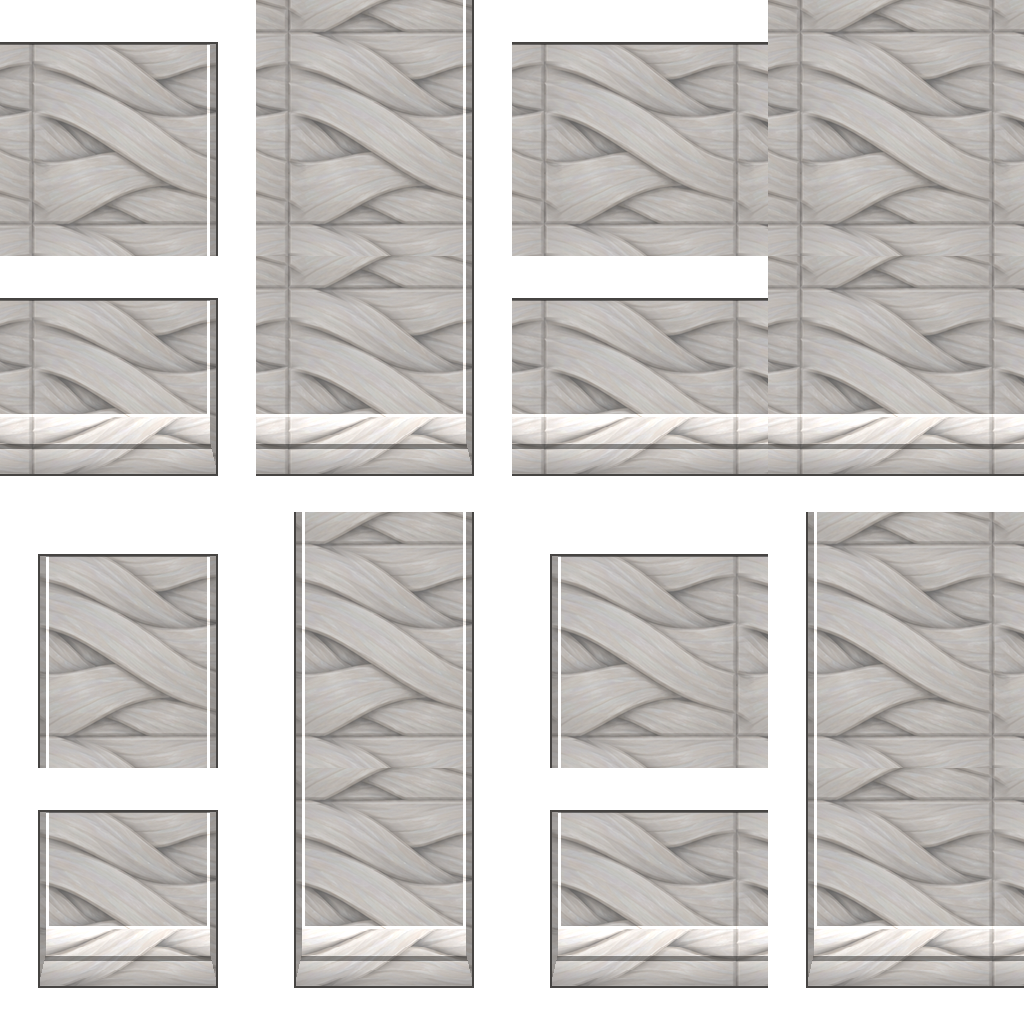
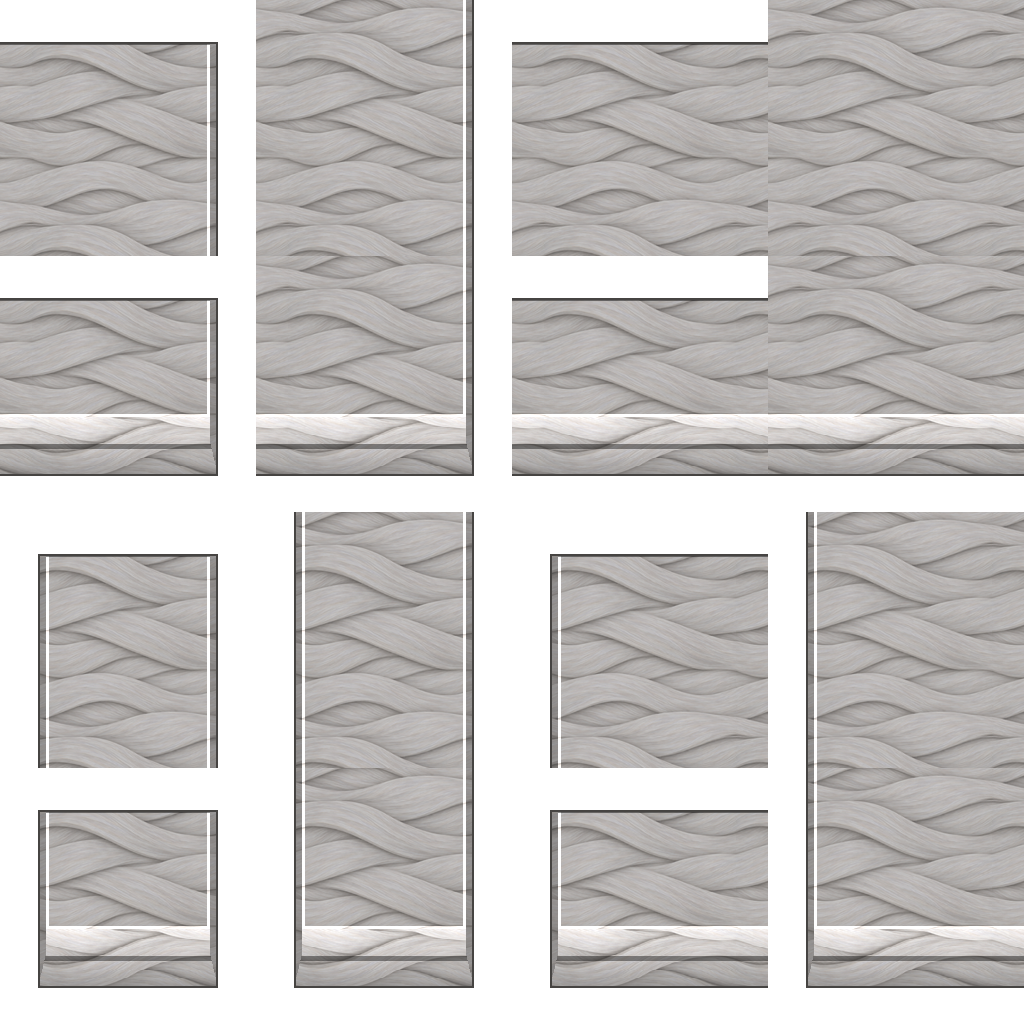
BIOME_SHIP_CONTRIBUTIONS_1: judge round 2 answered; provenance per row, stand-in art named and filed
Weeping Stones and Stillsand rows were agent picks, now marked so; the card quotes each row's source.
RIMMANDRAKE_PAINT_SHIP_GIFTS_OWN_ART owes own art for the 14 gifts on stand-ins.

diff --git a/whittle/biome_ship_contributions_1/evidence/owner_card.md b/whittle/biome_ship_contributions_1/evidence/owner_card.md
@@ -1,54 +1,85 @@
 # Card for the owner: the ship-gift matrix (BIOME_SHIP_CONTRIBUTIONS_1)
 
-Written Wed Nov 11, 11:10 PM PST. Not blocking: the work stands as built until you answer. Delivered to the lane's owner-questions file
+Written Wed Nov 11, 11:31 PM PST. Not blocking: the work stands as built until you answer. Delivered to the lane's owner-questions file
 (`D:\ClaudeWork\rimmandrake\whittle_claude\CLAUDE_STEVEDESKTOP_OFFLINE2\OWNER_QUESTIONS.md`) and the daily digest.
 
 ## The matrix (read this first)
 
 Your 2026-09-24 ask: *"how can this biome uniquely add something to the ship? ... What can they take and improve their
-ships environment with?"* Each of the 24 biomes in Baroque Biomes now has one gift that can stand on a gravship deck
-and fly with it, checked against the game's own placement rules. "Your ruling" = you chose it; "picked by an agent" =
-chosen under your 2026-10-22 delegation and checked by a fresh design judge; "new" = built in this pass.
+ships environment with?"* Each of the 24 biomes in Baroque Biomes now has a gift that can stand on a gravship deck and
+fly with it, checked against the game's own placement rules. Each row says where it comes from: a ruling of yours, or
+"picked by an agent" (under your 2026-10-22 delegation, then checked by a fresh design judge), or "new this pass".
+Nothing here has been placed in a running game yet.
 
-- **The Abyss** (picked by an agent): the summ great bone: set aboard, a summ egg hatched on the ship imprints on the crew, so the ship can raise the Abyss's flyers
-- **Blue Desert** (your ruling): the cold hold: blue-ice blocks (RM_BlueIce) stowed as the ship's distilled-purity water stock, and cold wax (RM_ColdWax, the natives' gland and flora fuel, inert only while cold) carried as a chemfuel windfall, in a hold the blue-ice cold rack keeps cold with no power through a blackout; one cooling failure and the pantry is a bomb. The rack is the deck part; ice and wax are its cargo
-- **The Cauldron** (picked by an agent): the hull liner rig: one rig glazes the whole ship's skin against acid, from ground vexxith plate
-- **The Contagion** (your ruling): the ship-mounted cloud repulsor: the Helix field device as a gravship hardpoint, bought or won, installed on substructure
-- **The Cracked Lands** (new): the fossil case: a whole fossil skeleton from the skeleton seams, cased for the bulkhead (beauty 14)
-- **Fever Wood** (picked by an agent): the sekkulaath tank: the swamp's captive producer carried as ship stock
-- **Gelatinous Slime** (picked by an agent): the archive vat: grows a dead colonist back from the slime's last reading of them, anywhere the ship goes
-- **Greentide** (picked by an agent): the dry-air blower: cools a cabin without dumping heat into any room, and holds back the wet at its threshold
-- **Lantern Deeps** (picked by an agent): lanternstone aboard: floor and wall that glow forever and need no lamp
-- **Leaning Scrub** (picked by an agent): the wind vaporator: a powered, buildable fog-catch that combs a thin, reliable margin of water out of the passing wind, any number of them
-- **Long Shade** (picked by an agent): the shade awning: real shade on an open deck under the Direct Sun
-- **The Miasma** (picked by an agent): the decay cell: power from rot, in a bed of delta loam, silt and salt
-- **Pyrelands** (new): the furnace-hide heat bank: furnace-beast hide gives back banked sun, a heater with no fuel and no power
-- **The Rust Cathedral** (new): pattern hull: hull seeded with live pattern metal that mends itself (120 HP a day)
-- **The Sleeping Ice** (new): tellurox hexplate: a deck floor of the tellurox's permanent shell plates
-- **Stillsand** (your ruling): the precision-lens kit: the lens-glass solar still and sun lance, fuel-free on an open deck (the earlier "ship lens array" row named a part that was never built; this is what ships)
-- **Terminal Biomes** (picked by an agent): the sun-sphere: a cultured ollumin that grows into its own small sun, lighting and growing crops with no power or lamp; and the cryoponics vat, the Chill's deep-bed plants raised anywhere
-- **The Forge** (your ruling): spunstone hull and floatstone door: airtight floatstone ship parts
-- **The Rot** (picked by an agent): the swallowed drive core: an older ship's drive coil cut out of a hwelgrue, installed as a grav-engine facility, multiplies the ship's total range
-- **The Sump** (your ruling): glasswalk flooring, gaslight lamps and the tar vault larder
-- **Warscar** (your ruling): the aerosol screen (a clean-air dome over the ship in any polluted biome) and the glower shield panel
-- **The Wastes** (picked by an agent): the waste cask bay: a shielded, powered rack that lets a ship carry waste casks safely
-- **Webwork** (picked by an agent): the traction lance: a crewed tether emplacement that reels a target or a downed colonist in
-- **Weeping Stones** (your ruling): the ancient condenser plant: the oldest gorrask's machine, one per world, cut from its shell; it weeps water with no power or fuel wherever it is installed (unlike the Leaning Scrub vaporator: unpowered, unique, a trophy)
+- **The Abyss**: the summ great bone: set aboard, a summ egg hatched on the ship imprints on the crew, so the ship can raise the Abyss's flyers  
+  _Where it comes from:_ Abyss mod (its own text: "set one aboard your gravship"); picked by an agent
+- **Blue Desert**: the cold hold: blue-ice blocks (RM_BlueIce) stowed as the ship's distilled-purity water stock, and cold wax (RM_ColdWax, the natives' gland and flora fuel, inert only while cold) carried as a chemfuel windfall, in a hold the blue-ice cold rack keeps cold with no power through a blackout; one cooling failure and the pantry is a bomb. The rack is the deck part; ice and wax are its cargo  
+  _Where it comes from:_ owner by card 2026-09-24 (the_blue_desert.md §7, THE COLD HOLD)
+- **The Cauldron**: the hull liner rig: one rig glazes the whole ship's skin against acid, from ground vexxith plate  
+  _Where it comes from:_ Cauldron mod; picked by an agent
+- **The Contagion**: the ship-mounted cloud repulsor: the Helix field device as a gravship hardpoint, bought or won, installed on substructure  
+  _Where it comes from:_ the_contagion.md (devices ruled); Helix trader/quest owner by card 2026-10-15
+- **The Cracked Lands**: the fossil case: a whole fossil skeleton from the skeleton seams, cased for the bulkhead (beauty 14)  
+  _Where it comes from:_ new this pass, picked by an agent, from the cast doc's bulkhead fossil
+- **Fever Wood**: the sekkulaath tank: the swamp's captive producer carried as ship stock  
+  _Where it comes from:_ FeverWood mod; picked by an agent
+- **Gelatinous Slime**: the archive vat: grows a dead colonist back from the slime's last reading of them, anywhere the ship goes  
+  _Where it comes from:_ GELATINOUSSLIME_ARCHIVE_RESURRECTION_1; picked by an agent
+- **Greentide**: the dry-air blower: cools a cabin without dumping heat into any room, and holds back the wet at its threshold  
+  _Where it comes from:_ Greentide mod; picked by an agent
+- **Lantern Deeps**: lanternstone aboard: floor and wall that glow forever and need no lamp  
+  _Where it comes from:_ LanternDeeps mod; picked by an agent
+- **Leaning Scrub**: the wind vaporator: a powered, buildable fog-catch that combs a thin, reliable margin of water out of the passing wind, any number of them  
+  _Where it comes from:_ LeaningScrub mod; picked by an agent
+- **Long Shade**: the shade awning: real shade on an open deck under the Direct Sun  
+  _Where it comes from:_ long_shade_bedazzle_2026-09-27.md §6 (shade awning); picked by an agent
+- **The Miasma**: the decay cell: power from rot, in a bed of delta loam, silt and salt  
+  _Where it comes from:_ Miasma mod; picked by an agent
+- **Pyrelands**: the furnace-hide heat bank: furnace-beast hide gives back banked sun, a heater with no fuel and no power  
+  _Where it comes from:_ new this pass, picked by an agent
+- **The Rust Cathedral**: pattern hull: hull seeded with live pattern metal that mends itself (120 HP a day)  
+  _Where it comes from:_ new this pass, picked by an agent
+- **The Sleeping Ice**: tellurox hexplate: a deck floor of the tellurox's permanent shell plates  
+  _Where it comes from:_ new this pass, picked by an agent
+- **Stillsand**: the precision-lens kit: the lens-glass solar still and sun lance, fuel-free on an open deck (the earlier "ship lens array" row named a part that was never built; this is what ships)  
+  _Where it comes from:_ STILLSAND_GLASS_LENS_CHAIN_1 §11 (the lens chain is the owner's typed ruling; choosing these two as the ship gift is an agent pick); picked by an agent
+- **Terminal Biomes**: the sun-sphere: a cultured ollumin that grows into its own small sun, lighting and growing crops with no power or lamp; and the cryoponics vat, the Chill's deep-bed plants raised anywhere  
+  _Where it comes from:_ TerminalBiomes mod; picked by an agent
+- **The Forge**: spunstone hull and floatstone door: airtight floatstone ship parts  
+  _Where it comes from:_ owner by card 2026-10-03 (FORGE_SPUNSTONE_SOURCES_1)
+- **The Rot**: the swallowed drive core: an older ship's drive coil cut out of a hwelgrue, installed as a grav-engine facility, multiplies the ship's total range  
+  _Where it comes from:_ TheRot mod; picked by an agent
+- **The Sump**: glasswalk flooring, gaslight lamps and the tar vault larder  
+  _Where it comes from:_ owner 2026-09-24 (his own examples); SUMP_WALKWAYS_1, SUMP_GASLIGHT_1, SUMP_TAR_VAULT_1
+- **Warscar**: the aerosol screen (a clean-air dome over the ship in any polluted biome) and the glower shield panel  
+  _Where it comes from:_ WARSCAR_AEROSOL_SCREEN_1 (owner turn 4, 2026-09-30)
+- **The Wastes**: the waste cask bay: a shielded, powered rack that lets a ship carry waste casks safely  
+  _Where it comes from:_ wastes.md (the waste run by gravship); picked by an agent
+- **Webwork**: the traction lance: a crewed tether emplacement that reels a target or a downed colonist in  
+  _Where it comes from:_ Webwork mod; picked by an agent
+- **Weeping Stones**: the ancient condenser plant: the oldest gorrask's machine, one per world, cut from its shell; it weeps water with no power or fuel wherever it is installed (unlike the Leaning Scrub vaporator: unpowered, unique, a trophy)  
+  _Where it comes from:_ WeepingStones mod (its own text: "install it on a ship"); picked by an agent
+
+**Art still owed:** 14 of these would look like other things on a deck today. Eight borrow another thing's picture
+(hull liner rig, wind vaporator, sun-sphere, glasswalk, aerosol screen, glower shield panel, waste cask bay, traction
+lance) and six are declared placeholders (summ great bone, sekkulaath tank, lure awning, tar vault, floatstone door,
+ancient condenser plant). Their own art is a filed, separate piece of work. Until then the "scrapbook" shows in what the
+gifts do, not yet in how they look.
 
 After you read that, are you ready for a question card?
 
 ## The card
 
-Wed Nov 11, 11:10 PM PST
+Wed Nov 11, 11:31 PM PST
 
 Do these 24 ship gifts stand, one per biome?
 
-1. **Keep the matrix as it is** <- recommended - every biome has a distinct, buildable gift and a judge already
-   rebalanced it. Why: lets the ship pass close and the gifts get their first live run. Costs: nothing now; any row you
-   later dislike is one small build round.
+1. **Keep the gifts as they are, and let the owed art follow** <- recommended - every biome has a distinct, buildable
+   gift and a judge already rebalanced the set. Why: the gifts get their first live run while the 14 pictures are
+   painted. Costs: nothing now; the ship looks patchy until the art lands; any row you later dislike is one small build round.
 2. **Swap named rows for another thing that biome already ships** - why: you prefer a different existing building
-   (each biome's alternatives are listed in `D:\Luke\dev\RimMandrake\whittle\biome_ship_contributions_1\evidence\deck_inventory.txt`).
-   Buys: your taste on those rows at almost no build cost. Costs: a rerun of the check and a mirror sync.
+   (each biome's alternatives are in `D:\Luke\dev\RimMandrake\whittle\biome_ship_contributions_1\evidence\deck_inventory.txt`).
+   Buys: your taste on those rows at almost no build cost. Costs: a rerun of the check; a swapped-in thing may need art too.
 3. **Redesign named gifts from scratch** - why: a row's gift feels thin or off-fiction (likely candidates: the four new
    ones, or Webwork's tether lance). Buys: a gift worth landing for. Costs: one design-and-build round per row, plus art.
 4. **Hold the matrix for the per-biome Designer sittings** - why: you want each gift argued out with that biome's

diff --git a/infrastructure/state/items/BIOME_SHIP_CONTRIBUTIONS_1.md b/infrastructure/state/items/BIOME_SHIP_CONTRIBUTIONS_1.md
@@ -35,6 +35,12 @@ Distinctness pass (Whittle judge, 2026-11-11): three biomes gave a cabin heater,
 bone and the Rot row only its drive core; the furnace-hide bank is the one heater. The two water machines stay, told
 apart in their rows (powered and buildable vs unpowered and unique).
 
+**Art still owed.** 14 gifts would look like other things on a deck: 8 borrow another thing's texture (hull liner
+rig, wind vaporator, sun-sphere, glasswalk, aerosol screen, glower shield panel, waste cask bay, traction lance) and 6
+are declared placeholders (summ great bone, sekkulaath tank, lure awning, tar vault, floatstone door, ancient condenser
+plant). Their own art is owed by `RIMMANDRAKE_PAINT_SHIP_GIFTS_OWN_ART`; until it lands the scrapbook shows in what
+the gifts do, not yet in how they look.
+
 **Why agents picked rows on a design item.** The 2026-11-03 note routed this item's design to the Designer. The
 Conductor, who carries the owner's authority (`CONDUCTOR_AUTHORITY_DECIDE_NO_ASKING_MOM`, owner 2026-10-30), put it in
 a Whittle offline lane on 2026-11-11 (owner order ~19:10 PST: *"start other Whittle agents to work on offline items
@@ -59,7 +65,7 @@ fresh design judge, and carded to the owner for review (`whittle/biome_ship_cont
 | Pyrelands | **the furnace-hide heat bank**: furnace-beast hide gives back banked sun, a heater with no fuel and no power | `RM_FurnaceHideBank` | *new*, *delegated* |
 | The Rust Cathedral | **pattern hull**: hull seeded with live pattern metal that mends itself (120 HP a day) | `RM_PatternHull` | *new*, *delegated* |
 | The Sleeping Ice | **tellurox hexplate**: a deck floor of the tellurox's permanent shell plates | `RM_TelluroxHexplate` | *new*, *delegated* |
-| Stillsand | **the precision-lens kit**: the lens-glass solar still and sun lance, fuel-free on an open deck (the earlier "ship lens array" row named a part that was never built; this is what ships) | `RM_SolarStill` `RM_SunLance` | `STILLSAND_GLASS_LENS_CHAIN_1` §11 (owner-typed lens chain) |
+| Stillsand | **the precision-lens kit**: the lens-glass solar still and sun lance, fuel-free on an open deck (the earlier "ship lens array" row named a part that was never built; this is what ships) | `RM_SolarStill` `RM_SunLance` | `STILLSAND_GLASS_LENS_CHAIN_1` §11 (the lens chain is the owner's typed ruling; choosing these two as the ship gift is an agent pick); *delegated* |
 | Terminal Biomes | **the sun-sphere**: a cultured ollumin that grows into its own small sun, lighting and growing crops with no power or lamp; and the **cryoponics vat**, the Chill's deep-bed plants raised anywhere | `RM_SunSphere` `RM_ChillCryoponicsVat` | TerminalBiomes mod; *delegated* |
 | The Forge | **spunstone hull and floatstone door**: airtight floatstone ship parts | `RM_SpunstoneHull` `RM_FloatstoneDoor` | owner by card 2026-10-03 (`FORGE_SPUNSTONE_SOURCES_1`) |
 | The Rot | **the swallowed drive core**: an older ship's drive coil cut out of a hwelgrue, installed as a grav-engine facility, multiplies the ship's total range | `RM_SwallowedDriveCore` | TheRot mod; *delegated* |
@@ -67,7 +73,7 @@ fresh design judge, and carded to the owner for review (`whittle/biome_ship_cont
 | Warscar | **the aerosol screen** (a clean-air dome over the ship in any polluted biome) and the **glower shield panel** | `RM_AerosolScreen` `RM_GlowerShieldPanel` | `WARSCAR_AEROSOL_SCREEN_1` (owner turn 4, 2026-09-30) |
 | The Wastes | **the waste cask bay**: a shielded, powered rack that lets a ship carry waste casks safely | `RM_WasteCaskBay` | `wastes.md` (the waste run by gravship); *delegated* |
 | Webwork | **the traction lance**: a crewed tether emplacement that reels a target or a downed colonist in | `RM_TractionLance` | Webwork mod; *delegated* |
-| Weeping Stones | **the ancient condenser plant**: the oldest gorrask's machine, one per world, cut from its shell; it weeps water with no power or fuel wherever it is installed (unlike the Leaning Scrub vaporator: unpowered, unique, a trophy) | `RM_AncientCondenserPlant` | WeepingStones mod (its own text: "install it on a ship") |
+| Weeping Stones | **the ancient condenser plant**: the oldest gorrask's machine, one per world, cut from its shell; it weeps water with no power or fuel wherever it is installed (unlike the Leaning Scrub vaporator: unpowered, unique, a trophy) | `RM_AncientCondenserPlant` | WeepingStones mod (its own text: "install it on a ship"); *delegated* |
 
 ## spec
 

diff --git a/infrastructure/state/items/RIMMANDRAKE_PAINT_SHIP_GIFTS_OWN_ART.md b/infrastructure/state/items/RIMMANDRAKE_PAINT_SHIP_GIFTS_OWN_ART.md
@@ -1,0 +1,29 @@
+# RIMMANDRAKE_PAINT_SHIP_GIFTS_OWN_ART — the ship gifts still on stand-in art
+
+Found by BIOME_SHIP_CONTRIBUTIONS_1 (Whittle judge, 2026-11-11): the item's criteria are *"the gravship becomes a
+scrapbook of everywhere it has been"*, and 14 of the 24 biome ship gifts would look like other things on a deck.
+
+## spec
+
+Give each its own texture through the art pipeline (generate, validate, a fresh art judge, `art.py install`), at 128 px
+per cell. Measured from each def's texPath and header (2026-11-11):
+
+Borrowing another thing's texture (texPath points at someone else's art):
+- `RM_HullLinerRig` (Cauldron) — FlowWorks liquid tap
+- `RM_WindVaporator` (Leaning Scrub) — vanilla moisture pump
+- `RM_SunSphere` (Terminal Biomes) — RM_GlowTank
+- `RM_Glasswalk` (Sump) — vanilla deep-water ramp terrain
+- `RM_AerosolScreen` (Warscar) — old-line turret base
+- `RM_GlowerShieldPanel` (Warscar) — RM_LoosenedPanel
+- `RM_WasteCaskBay` (Wastes) — vanilla shelf
+- `RM_TractionLance` (Webwork) — web anchor
+
+Declared placeholders in their own def headers:
+- `RM_SummGreatBone` (Abyss), `RM_SekkulaathTank` (Fever Wood, flat colour), `RM_LureAwning` (Long Shade, tinted tent),
+  `RM_TarVault` (Sump), `RM_FloatstoneDoor` (Forge, vanilla door), `RM_AncientCondenserPlant` (Weeping Stones, copied
+  condenser stack)
+
+## verify
+
+Each listed def's texPath resolves to a texture made for it in its own mod (art ledger event, judge verdict), and its
+def header no longer says placeholder.

diff --git a/whittle/biome_ship_contributions_1/DONE.md b/whittle/biome_ship_contributions_1/DONE.md
@@ -18,8 +18,10 @@ mod built from this clone loads clean in the offline effective def tree (`eviden
 ## What I'm least sure about
 - Nothing was placed, flown or used in a running game (offline lane). Placement is the engine's rules read from
   decompiled 1.6 and the defs; the load check reads defs and patches as the game does but runs no C#.
-- 17 rows are agent picks under the delegation, and the 4 new gifts' numbers are provisional; the owner card is not
-  answered yet (keep-as-is recommended, non-blocking).
+- 20 rows are agent picks under the delegation (each row says where it comes from), and the 4 new gifts' numbers are
+  provisional; the owner card is not answered yet (keep-as-is recommended, non-blocking).
+- 14 gifts still wear stand-in art (8 borrowed textures, 6 declared placeholders). The list and the card name them;
+  their art is owed by the filed item RIMMANDRAKE_PAINT_SHIP_GIFTS_OWN_ART, so the scrapbook shows in function first.
 - The checker's source test is a whitelist plus a file-level C# rule, and patch xpath is pattern-matched, not
   evaluated (both documented in the checker).
 
